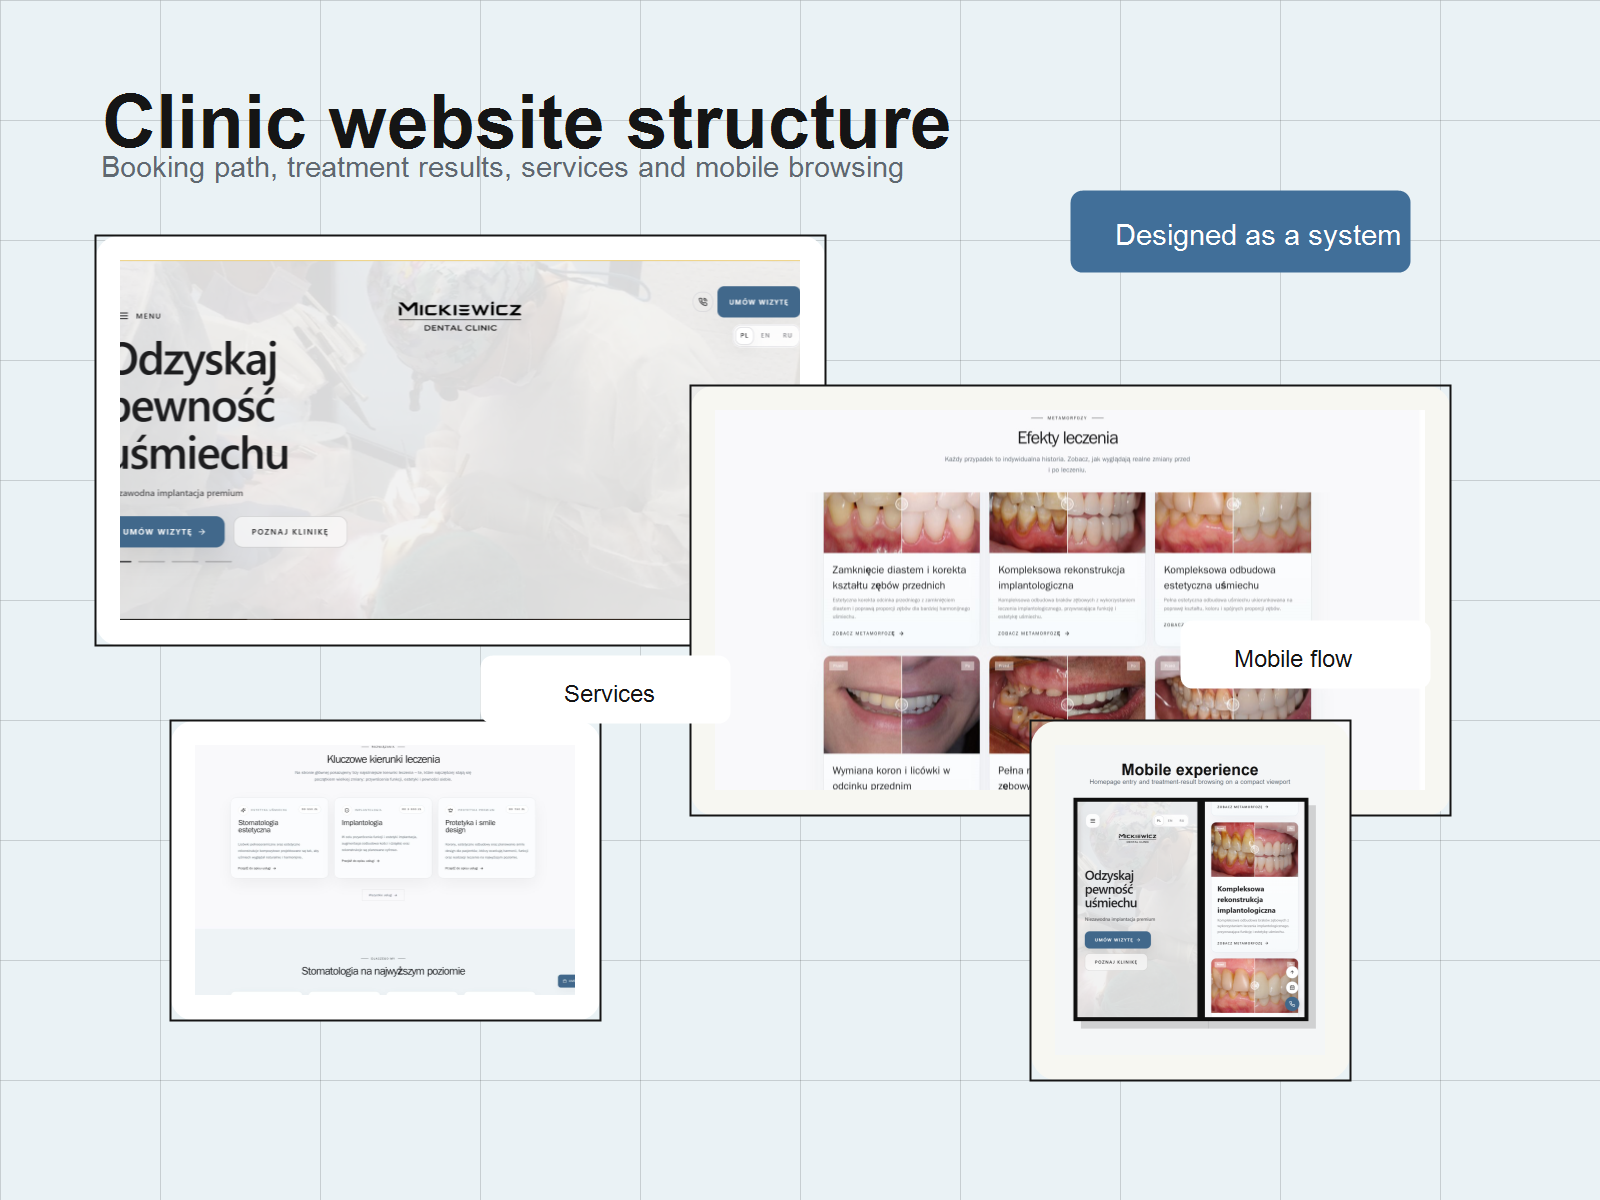
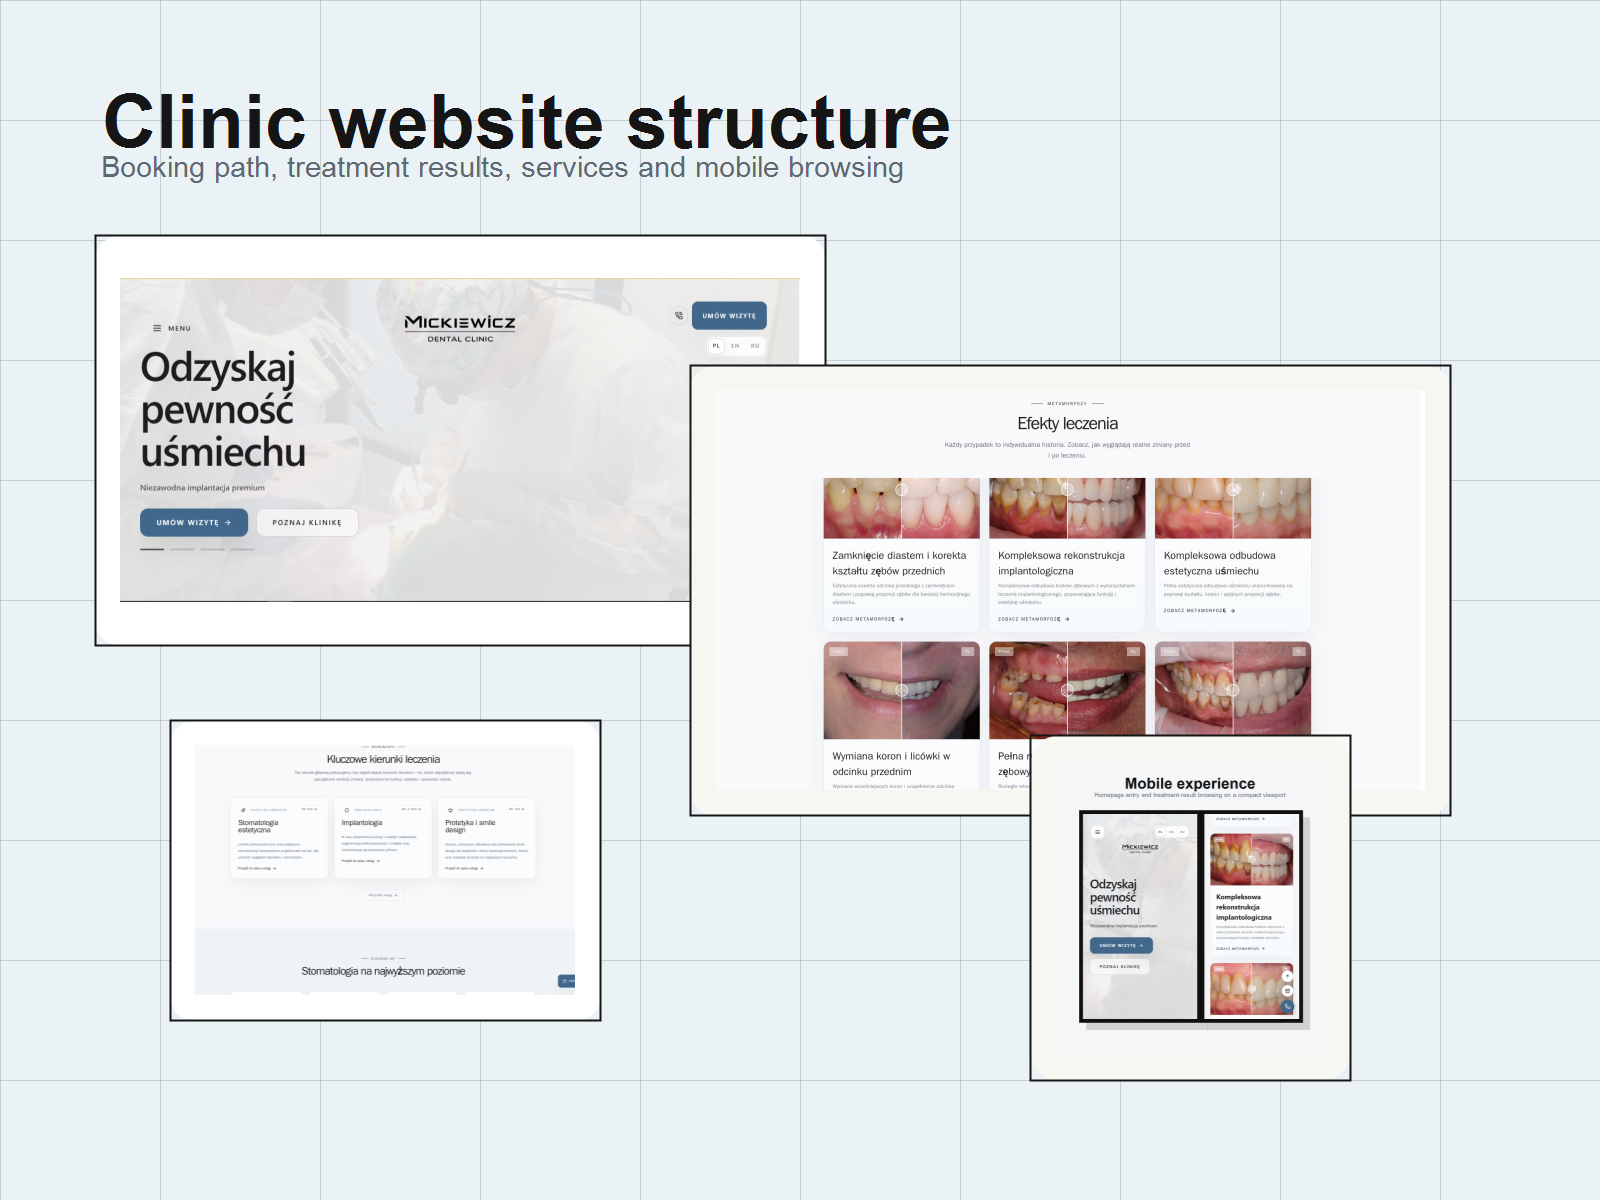
Polish portfolio copy and dental slide

diff --git a/frontend/src/i18n/translations.js b/frontend/src/i18n/translations.js
@@ -57,9 +57,9 @@ const en = {
     ctaContact: "Start a project",
     whatIDo: "What I do",
     capabilities: [
-      "Web design & development",
+      "Design & development",
       "Inquiries & client follow-up",
-      "Business process automation",
+      "Business process automation & optimization",
       "Planning, QA & delivery",
     ],
     marquee: ["DESIGN", "DEVELOPMENT", "AUTOMATION", "INQUIRIES", "FORMS", "FOLLOW-UP", "CLIENT PROCESSES", "QA", "DELIVERY"],
@@ -70,8 +70,7 @@ const en = {
     headingA: "Selected work and",
     headingB: "solution examples.",
     headingHighlight: "solution",
-    subheading:
-      "A mix of client work and focused examples around websites, lead handling, document workflows and process automation.",
+    subheading: "",
     visitLive: "Visit live site",
     prevSlide: "Previous slide",
     nextSlide: "Next slide",
@@ -98,7 +97,7 @@ const en = {
       },
       {
         t: "Personal responsibility.",
-        d: "You work directly with me — the person responsible for quality, timing and the code itself. If a task needs specific expertise, I bring in and coordinate trusted specialists without pushing that coordination onto you.",
+        d: "You work directly with me — the person responsible for quality, timing and the code itself.",
       },
     ],
   },
@@ -232,9 +231,9 @@ const pl = {
     ctaContact: "Rozpocznij projekt",
     whatIDo: "Co robię",
     capabilities: [
-      "Projektowanie i development www",
+      "Projektowanie i development",
       "Zapytania i obsługa klientów",
-      "Automatyzacja procesów biznesowych",
+      "Automatyzacja i optymalizacja procesów biznesowych",
       "Plan, testy i wdrożenie",
     ],
     marquee: ["PROJEKTOWANIE", "DEVELOPMENT", "AUTOMATYZACJA", "ZAPYTANIA", "FORMULARZE", "OBSŁUGA KLIENTA", "PROCESY", "TESTY", "WDROŻENIE"],
@@ -245,8 +244,7 @@ const pl = {
     headingA: "Wybrane prace i",
     headingB: "przykłady rozwiązań.",
     headingHighlight: "rozwiązań",
-    subheading:
-      "Połączenie prac klienckich i skupionych przykładów wokół stron, obsługi leadów, obiegów dokumentów i automatyzacji procesów.",
+    subheading: "",
     visitLive: "Zobacz live",
     prevSlide: "Poprzedni slajd",
     nextSlide: "Następny slajd",
@@ -273,7 +271,7 @@ const pl = {
       },
       {
         t: "Osobista odpowiedzialność.",
-        d: "Rozmawiasz bezpośrednio ze mną — osobą odpowiedzialną za jakość, terminy i sam kod. Jeśli zadanie wymaga specjalistycznych kompetencji, sam dobiorę i skoordynuję sprawdzonych specjalistów.",
+        d: "Rozmawiasz bezpośrednio ze mną — osobą odpowiedzialną za jakość, terminy i sam kod.",
       },
     ],
   },
@@ -407,9 +405,9 @@ const ru = {
     ctaContact: "Начать проект",
     whatIDo: "Что я делаю",
     capabilities: [
-      "Дизайн и разработка сайтов",
+      "Дизайн и разработка",
       "Заявки и обработка клиентов",
-      "Автоматизация бизнес-процессов",
+      "Автоматизация и оптимизация бизнес-процессов",
       "План работ, проверка и запуск",
     ],
     marquee: ["ДИЗАЙН", "РАЗРАБОТКА", "АВТОМАТИЗАЦИЯ", "ЗАЯВКИ", "ФОРМЫ", "ОБРАБОТКА КЛИЕНТОВ", "ПРОЦЕССЫ", "ПРОВЕРКА", "ЗАПУСК"],
@@ -420,8 +418,7 @@ const ru = {
     headingA: "Избранные работы и",
     headingB: "примеры решений.",
     headingHighlight: "решений",
-    subheading:
-      "Сочетание клиентских работ и сфокусированных примеров вокруг сайтов, работы с лидами, документооборота и автоматизации процессов.",
+    subheading: "",
     visitLive: "Открыть сайт",
   },
   about: {
@@ -445,7 +442,7 @@ const ru = {
       },
       {
         t: "Личная ответственность.",
-        d: "Вы общаетесь напрямую со мной — человеком, который отвечает за качество, сроки и сам пишет код. Если задача требует специфических навыков, я сам подключу и проконтролирую проверенных специалистов, не нагружая вас координацией.",
+        d: "Вы общаетесь напрямую со мной — человеком, который отвечает за качество, сроки и сам пишет код.",
       },
     ],
   },